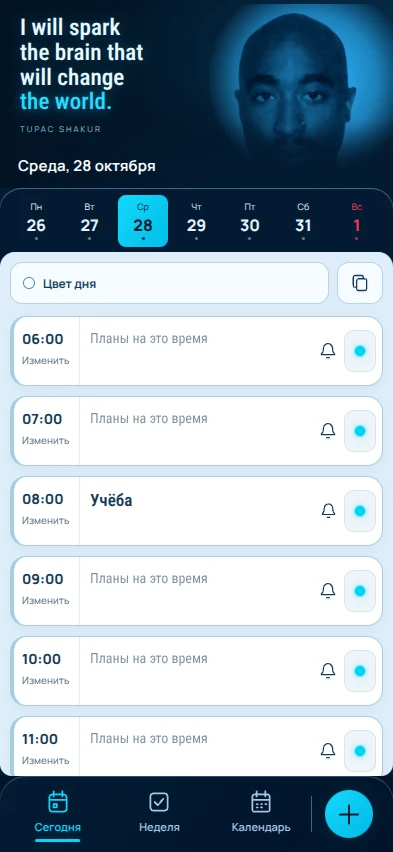
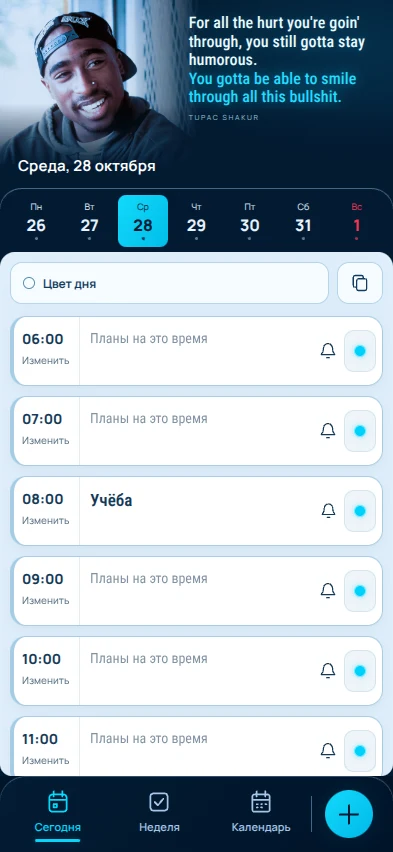
Use user's blue Tupac photograph on left and supplied caption on right (2.3.14)

Changed region(s): [[0.0, 0.0, 1.0, 0.2136]]

diff --git a/app/src/main/assets/index.html b/app/src/main/assets/index.html
@@ -691,6 +691,15 @@ body[data-design=ice].ice-editing .ice-tribute{height:46px;min-height:46px}
 body[data-design=ice].ice-editing .ice-tribute-quote,body[data-design=ice].ice-editing .ice-tupac-photo,body[data-design=ice].ice-editing .ice-tribute-glow{display:none}
 body[data-design=ice].ice-editing .ice-tribute .ice-date-line{bottom:6px;font-size:13px;left:13px}
 @media(max-width:350px){.ice-tribute-quote{padding-left:16px}.ice-tribute-quote p{font-size:22px}.ice-tupac-photo{width:56%;right:-8px}body[data-design=ice] .ice-tribute .ice-date-line{font-size:14px;left:16px}}
+</style><style>
+.ice-tupac-photo{left:0;right:auto;top:0;width:51%;height:165px;mask-image:linear-gradient(90deg,#000 65%,transparent 100%);-webkit-mask-image:linear-gradient(90deg,#000 65%,transparent 100%)}
+.ice-tupac-photo img{object-fit:cover;object-position:45% 35%;filter:none;opacity:1}
+.ice-tribute-glow{left:-20px;right:auto;background:radial-gradient(ellipse,#00d4ff26,transparent 68%)}
+.ice-tribute:after{background:linear-gradient(0deg,#031a31 0%,#031a31ee 13%,transparent 45%);z-index:1}
+.ice-tribute-quote{margin-left:48%;padding:14px 12px 0 0;width:52%}
+.ice-tribute-quote p{font-size:16px;line-height:1.16;font-weight:500;text-shadow:0 0 10px #25c4ff33}
+.ice-tribute-quote cite{margin-top:6px;font-size:7px;letter-spacing:1.7px}
+@media(max-width:350px){.ice-tribute-quote{margin-left:46%;width:54%;padding:12px 9px 0 0}.ice-tribute-quote p{font-size:15px;line-height:1.14}.ice-tupac-photo{left:0;right:auto;width:50%}}
 </style></head><body><main><header class="app-heading"><p id="top-date"></p><div class="header-actions"><button class="header-icon" data-tab="events" aria-label="События и напоминания"><svg viewBox="0 0 24 24" fill="none" stroke="currentColor" stroke-width="1.7"><path d="M18 8a6 6 0 0 0-12 0c0 7-3 7-3 9h18c0-2-3-2-3-9M10 21h4"/></svg></button><button class="header-icon" id="settings-open" aria-label="Настройки" aria-expanded="false"><svg viewBox="0 0 24 24" fill="none" stroke="currentColor" stroke-width="1.7"><path d="m10 3-.7 2.3-2 .9-2.2-.7-2 3.4 1.5 1.8v2.6L3.1 15l2 3.4 2.2-.7 2 .9.7 2.4h4l.7-2.4 2-.9 2.2.7 2-3.4-1.5-1.7v-2.6l1.5-1.8-2-3.4-2.2.7-2-.9L14 3z"/><circle cx="12" cy="12" r="3"/></svg></button></div></header><nav class="tabs" aria-label="Период"><button class="tab active" data-tab="day"><svg class="ui-icon" width="20" height="20" viewBox="0 0 24 24" fill="none" stroke="currentColor" stroke-width="1.65" stroke-linecap="round" stroke-linejoin="round" aria-hidden="true"><rect x="4" y="5" width="16" height="16" rx="3"/><path d="M8 3v4m8-4v4M4 11h16m-11 4h2v2H9z"/></svg><span>День</span></button><button class="tab" data-tab="week"><svg class="ui-icon" width="20" height="20" viewBox="0 0 24 24" fill="none" stroke="currentColor" stroke-width="1.65" stroke-linecap="round" stroke-linejoin="round" aria-hidden="true"><rect x="3" y="3" width="7" height="7" rx="1"/><rect x="14" y="3" width="7" height="7" rx="1"/><rect x="3" y="14" width="7" height="7" rx="1"/><rect x="14" y="14" width="7" height="7" rx="1"/></svg><span>Неделя</span></button><button class="tab" data-tab="calendar"><svg class="ui-icon" width="20" height="20" viewBox="0 0 24 24" fill="none" stroke="currentColor" stroke-width="1.65" stroke-linecap="round" stroke-linejoin="round" aria-hidden="true"><rect x="4" y="5" width="16" height="16" rx="3"/><path d="M8 3v4m8-4v4M4 11h16m-11 4h6"/></svg><span>Календарь</span></button><button class="tab" data-tab="savings"><svg class="ui-icon" width="20" height="20" viewBox="0 0 24 24" fill="none" stroke="currentColor" stroke-width="1.65" stroke-linecap="round" stroke-linejoin="round" aria-hidden="true"><ellipse cx="12" cy="5" rx="7" ry="3"/><path d="M5 5v5c0 4 14 4 14 0V5M5 10v5c0 4 14 4 14 0v-5M5 15v4c0 4 14 4 14 0v-4"/></svg><span>Накопления</span></button><button class="tab" data-tab="notes"><svg class="ui-icon" width="20" height="20" viewBox="0 0 24 24" fill="none" stroke="currentColor" stroke-width="1.65" stroke-linecap="round" stroke-linejoin="round" aria-hidden="true"><path d="M14 3H6a2 2 0 0 0-2 2v14a2 2 0 0 0 2 2h12a2 2 0 0 0 2-2V9zM14 3v6h6M8 13h8m-8 4h6"/></svg><span>Заметки</span></button><button class="tab" data-tab="events" aria-label="События и напоминания"><svg class="ui-icon" width="20" height="20" viewBox="0 0 24 24" fill="none" stroke="currentColor" stroke-width="1.65" stroke-linecap="round" stroke-linejoin="round" aria-hidden="true"><path d="M18 8a6 6 0 0 0-12 0c0 7-3 7-3 9h18c0-2-3-2-3-9M10 21h4"/></svg></button></nav><div class="toolbar"><div class="period-title"><h1 class="date-title" id="title"></h1><p class="sub" id="subtitle"></p></div><div class="nav"><button class="btn arrow" id="prev" aria-label="Предыдущий период">‹</button><label class="sr-only" for="date">Выбрать дату</label><input class="date-input" id="date" type="date"><button class="btn arrow" id="next" aria-label="Следующий период">›</button><button class="btn" id="today">Сегодня</button></div></div><div id="view"></div><div id="footer-home" hidden></div><footer id="app-footer" hidden><span id="save-state" role="status">Сохранено на устройстве</span><button id="global-calc-open" hidden aria-label="Калькулятор"></button></footer></main>
 <dialog id="reminder-dialog" aria-labelledby="reminder-title"><form id="reminder-form"><div class="dialog-head"><h2 id="reminder-title">Событие</h2><button type="button" data-close="reminder-dialog" aria-label="Закрыть">×</button></div><input name="reminderId" type="hidden"><label class="field">Название<input name="title" maxlength="500" required placeholder="Например, день рождения"></label><div class="reminder-datetime"><label class="field">Дата<input name="date" type="date" required></label><label class="field">Время<input name="time" type="time" required></label></div><label class="field">Напомнить<select name="lead"><option value="0">В указанное время</option><option value="5">За 5 минут</option><option value="10">За 10 минут</option><option value="15">За 15 минут</option><option value="30">За 30 минут</option><option value="60">За 1 час</option><option value="1440">За 1 день</option></select></label><label class="field">Повтор<select name="repeat"><option value="none">Один раз</option><option value="daily">Каждый день</option><option value="weekly">По дням недели</option><option value="monthly">Каждый месяц</option><option value="yearly">Каждый год</option></select></label><div id="weekday-options" class="weekday-options" hidden><label><input name="weekdays" type="checkbox" value="1">Пн</label><label><input name="weekdays" type="checkbox" value="2">Вт</label><label><input name="weekdays" type="checkbox" value="3">Ср</label><label><input name="weekdays" type="checkbox" value="4">Чт</label><label><input name="weekdays" type="checkbox" value="5">Пт</label><label><input name="weekdays" type="checkbox" value="6">Сб</label><label><input name="weekdays" type="checkbox" value="7">Вс</label></div><p class="dialog-note" id="repeat-help"></p><label class="enabled-reminder"><input type="checkbox" name="enabled" checked>Уведомление включено</label><p id="reminder-error" class="form-error" hidden></p><div class="dialog-actions"><button type="button" class="btn danger" id="reminder-delete" hidden>Удалить</button><button type="submit" class="btn primary">Сохранить</button></div></form></dialog>
 <dialog id="main-menu-dialog" aria-labelledby="main-menu-title"><form id="main-menu-form"><div class="dialog-head"><h2 id="main-menu-title">Главное меню</h2><button type="button" data-close="main-menu-dialog" aria-label="Закрыть">×</button></div><p class="dialog-note">Выбери три раздела для нижнего меню. Плюс остаётся третьей кнопкой. Выбор и порядок одинаковы во всех темах.</p><div id="main-menu-preview" class="main-menu-preview" aria-label="Предпросмотр меню"></div><label class="field">Первая кнопка<select name="menuFirst"></select></label><label class="field">Вторая кнопка<select name="menuSecond"></select></label><label class="field">Кнопка справа от плюса<select name="menuThird"></select></label><p id="main-menu-error" class="form-error" role="alert" hidden></p><p class="dialog-note">Скрытие кнопки не удаляет записи. На день и в настройки можно перейти через «+».</p><button class="btn" id="main-menu-reset" type="button">По умолчанию</button><div class="dialog-actions"><button class="btn" type="button" data-close="main-menu-dialog">Отмена</button><button class="btn primary" id="main-menu-save" type="submit">Сохранить</button></div></form></dialog><dialog id="ice-time-dialog" aria-labelledby="ice-time-title"><form id="ice-time-form"><div class="dialog-head"><h2 id="ice-time-title">Время задачи</h2><button type="button" data-close="ice-time-dialog" aria-label="Закрыть">×</button></div><label class="field">Точное время<input name="time" type="time" min="06:00" max="23:59" step="60" required></label><p class="dialog-note">Выбери время с 06:00 до 23:59. Запись займёт своё место в расписании.</p><p id="ice-time-error" class="form-error" role="alert" hidden></p><div class="dialog-actions"><button type="button" class="btn" data-close="ice-time-dialog">Отмена</button><button type="submit" class="btn primary">Готово</button></div></form></dialog><dialog id="ice-menu-dialog" aria-labelledby="ice-menu-title"><div class="dialog-head"><h2 id="ice-menu-title">Больше возможностей</h2><button data-close="ice-menu-dialog" aria-label="Закрыть">×</button></div><div id="ice-tools-list"></div></dialog><dialog id="theme-dialog" aria-labelledby="theme-title"><div class="dialog-head"><h2 id="theme-title">Оформление</h2><button data-close="theme-dialog" aria-label="Закрыть">×</button></div><p class="dialog-note">Выбери готовую тему и нажми «Применить». У каждой темы своя палитра для всех разделов.</p><h3 class="appearance-label">Темы приложения</h3><div id="design-gallery" class="design-gallery"></div><label class="field">Шрифт интерфейса<select id="typeface-choice"><option value="theme">По теме</option><option value="modern">Современный · Manrope</option><option value="book">Книжный · Lora</option><option value="system">Системный</option></select></label><label class="field">Размер записей<select id="font-size-choice"><option value="small">Компактный</option><option value="normal">Обычный</option><option value="large">Крупный</option></select></label><label class="field">Высота строк расписания<select id="density-choice"><option value="normal">Обычная</option><option value="compact">Компактная</option></select></label></dialog>
@@ -970,7 +979,7 @@ function setIceSlotColor(d,i,key){if(!validDate(d)||!Number.isInteger(i)||i<0||i
 function iceColor(key){return ICE_COLORS[key]||ICE_COLORS.none}
 function iceRowStyle(key){const c=iceColor(key);return `--ice-mark:${c[1]};--ice-card:${c[2]};--ice-ink:${c[3]}`}
 function activeColors(){return state.prefs.design==='ice'?ICE_COLORS:COLORS}
-function renderIceDay(){const start=monday(selected);$('view').innerHTML=`<section class="ice-home"><header class="ice-hero ice-tribute"><svg class="ice-photo-filter" width="0" height="0" aria-hidden="true"><defs><filter id="ice-tupac-duotone" color-interpolation-filters="sRGB"><feColorMatrix type="matrix" values="0.06 0.06 0.06 0 0.01 0.19 0.19 0.19 0 0.04 0.25 0.25 0.25 0 0.10 0 0 0 1 0"/></filter></defs></svg><div class="ice-tribute-glow" aria-hidden="true"></div><div class="ice-tupac-photo"><img src="ice/tupac-portrait.jpg" alt="Тупак Шакур" decoding="async"></div><blockquote class="ice-tribute-quote"><p>I will spark<br>the brain that<br>will change<br><em>the world.</em></p><cite>Tupac Shakur</cite></blockquote><div class="ice-date-line"><span>${fmt(selected,{weekday:'long',day:'numeric',month:'long'}).replace(/^./,c=>c.toUpperCase())}</span></div></header><nav class="ice-week" aria-label="Дни недели">${Array.from({length:7},(_,i)=>{const d=addDays(start,i),count=occupied(d)+dayEvents(d).length;return `<button data-date="${d}" class="${i===6?'ice-sunday':''}" ${d===selected?'aria-current="date"':''} aria-label="${fmt(d,{weekday:'long',day:'numeric',month:'long'})}"><span>${fmt(d,{weekday:'short'})}</span><strong>${dateObj(d).getDate()}</strong><i class="${count?'has-plans':''}"></i></button>`}).join('')}</nav><div class="ice-edit-bar"><span><small>Редактирование</small><strong id="ice-edit-time"></strong></span><button type="button" id="ice-edit-done">Готово</button></div><div class="ice-paper"><div class="ice-time-grid"><div class="ice-day-tools"><button data-day-color-open="${selected}"><i style="background:${iceColor(dayColor(selected))[1]}"></i>Цвет дня</button><button id="copy-open" aria-label="Скопировать день">${uiIcon('copy')}</button></div>${slots().map((r,i)=>({...r,i})).sort((x,y)=>x.time.localeCompare(y.time)||x.i-y.i).map(r=>{const i=r.i,[a,b]=iceTimeRange(i);return `<section class="ice-time-block ${r.text.trim()?'has-entry':''}" data-ice-slot="${i}" data-slot="${i}" data-color="${r.color}" style="${iceRowStyle(r.color)}"><button type="button" class="ice-hours ice-time-edit" data-ice-time="${i}" aria-label="Изменить время ${a}"><time>${a}</time><span>Изменить</span></button><div class="ice-entry"><label class="sr-only" for="slot-${i}">Дело на ${a}</label><textarea rows="1" id="slot-${i}" data-edit="${i}" aria-label="Дело на ${a}" maxlength="10000" placeholder="Планы на это время" spellcheck="true" autocapitalize="sentences">${esc(r.text)}</textarea><div class="ice-card-actions"><button class="ice-entry-reminder" data-slot-reminder="${i}" aria-label="Напоминание для ${a}">${uiIcon('bell')}</button><button class="ice-color-button" data-color-open="${i}" aria-label="Цвет записи ${a}: ${iceColor(r.color)[0]}"><i></i></button></div><button type="button" class="ice-expand" data-ice-expand="${i}" aria-controls="slot-${i}" aria-expanded="false" aria-label="Развернуть задание" hidden><svg viewBox="0 0 24 24" fill="none" stroke="currentColor" stroke-width="2" aria-hidden="true"><path d="m6 9 6 6 6-6"/></svg></button><button type="button" class="ice-row-done" data-ice-done="${i}">✓ Готово</button></div></section>`}).join('')}<div class="ice-time-end">24:00</div></div></div></section>`;refreshIceRows()}
+function renderIceDay(){const start=monday(selected);$('view').innerHTML=`<section class="ice-home"><header class="ice-hero ice-tribute"><svg class="ice-photo-filter" width="0" height="0" aria-hidden="true"><defs><filter id="ice-tupac-duotone" color-interpolation-filters="sRGB"><feColorMatrix type="matrix" values="0.06 0.06 0.06 0 0.01 0.19 0.19 0.19 0 0.04 0.25 0.25 0.25 0 0.10 0 0 0 1 0"/></filter></defs></svg><div class="ice-tribute-glow" aria-hidden="true"></div><div class="ice-tupac-photo"><img src="ice/tupac-user-blue.jpg" alt="Тупак Шакур" decoding="async"></div><blockquote class="ice-tribute-quote"><p>For all the hurt you're goin' through, you still gotta stay humorous.<br><em>You gotta be able to smile through all this bullshit.</em></p><cite>Tupac Shakur</cite></blockquote><div class="ice-date-line"><span>${fmt(selected,{weekday:'long',day:'numeric',month:'long'}).replace(/^./,c=>c.toUpperCase())}</span></div></header><nav class="ice-week" aria-label="Дни недели">${Array.from({length:7},(_,i)=>{const d=addDays(start,i),count=occupied(d)+dayEvents(d).length;return `<button data-date="${d}" class="${i===6?'ice-sunday':''}" ${d===selected?'aria-current="date"':''} aria-label="${fmt(d,{weekday:'long',day:'numeric',month:'long'})}"><span>${fmt(d,{weekday:'short'})}</span><strong>${dateObj(d).getDate()}</strong><i class="${count?'has-plans':''}"></i></button>`}).join('')}</nav><div class="ice-edit-bar"><span><small>Редактирование</small><strong id="ice-edit-time"></strong></span><button type="button" id="ice-edit-done">Готово</button></div><div class="ice-paper"><div class="ice-time-grid"><div class="ice-day-tools"><button data-day-color-open="${selected}"><i style="background:${iceColor(dayColor(selected))[1]}"></i>Цвет дня</button><button id="copy-open" aria-label="Скопировать день">${uiIcon('copy')}</button></div>${slots().map((r,i)=>({...r,i})).sort((x,y)=>x.time.localeCompare(y.time)||x.i-y.i).map(r=>{const i=r.i,[a,b]=iceTimeRange(i);return `<section class="ice-time-block ${r.text.trim()?'has-entry':''}" data-ice-slot="${i}" data-slot="${i}" data-color="${r.color}" style="${iceRowStyle(r.color)}"><button type="button" class="ice-hours ice-time-edit" data-ice-time="${i}" aria-label="Изменить время ${a}"><time>${a}</time><span>Изменить</span></button><div class="ice-entry"><label class="sr-only" for="slot-${i}">Дело на ${a}</label><textarea rows="1" id="slot-${i}" data-edit="${i}" aria-label="Дело на ${a}" maxlength="10000" placeholder="Планы на это время" spellcheck="true" autocapitalize="sentences">${esc(r.text)}</textarea><div class="ice-card-actions"><button class="ice-entry-reminder" data-slot-reminder="${i}" aria-label="Напоминание для ${a}">${uiIcon('bell')}</button><button class="ice-color-button" data-color-open="${i}" aria-label="Цвет записи ${a}: ${iceColor(r.color)[0]}"><i></i></button></div><button type="button" class="ice-expand" data-ice-expand="${i}" aria-controls="slot-${i}" aria-expanded="false" aria-label="Развернуть задание" hidden><svg viewBox="0 0 24 24" fill="none" stroke="currentColor" stroke-width="2" aria-hidden="true"><path d="m6 9 6 6 6-6"/></svg></button><button type="button" class="ice-row-done" data-ice-done="${i}">✓ Готово</button></div></section>`}).join('')}<div class="ice-time-end">24:00</div></div></div></section>`;refreshIceRows()}
 function refreshIceRows(){if(state.prefs.design!=='ice'||tab!=='day')return;const now=new Date(),minutes=now.getHours()*60+now.getMinutes();document.querySelectorAll('.ice-time-block').forEach(row=>{const i=Number(row.dataset.iceSlot);const color=slots()[i].color;row.dataset.color=color;row.style.cssText=iceRowStyle(color);const trigger=row.querySelector('[data-color-open]');trigger.title=iceColor(color)[0];trigger.setAttribute('aria-label','Цвет записи '+iceTimeRange(i)[0]+': '+iceColor(color)[0]);const text=row.querySelector('textarea'),focused=text===document.activeElement,oldScroll=text.scrollTop,atEnd=text.selectionEnd===text.value.length;row.classList.toggle('has-entry',!!text.value.trim());row.classList.toggle('ice-row-editing',focused);const [a,b]=iceTimeRange(i).map(t=>{const [h,m]=t.split(':').map(Number);return h*60+m});row.classList.toggle('ice-current',selected===iso()&&minutes>=a&&minutes<b);const visible=iceVisibleHeight(),collapsed=Math.ceil(parseFloat(getComputedStyle(text).lineHeight)*2+4),expanded=row.classList.contains('ice-expanded'),max=focused?Math.max(70,Math.min(180,visible-235)):(expanded?Infinity:collapsed),min=focused?Math.min(96,max):42;text.style.height='auto';const needed=text.scrollHeight,toggle=row.querySelector('.ice-expand'),long=!!text.value.trim()&&needed>collapsed+1;toggle.hidden=focused||!long;toggle.setAttribute('aria-expanded',String(expanded));toggle.setAttribute('aria-label',expanded?'Свернуть задание':'Развернуть задание');text.style.height=Math.min(max,Math.max(min,needed))+'px';if(focused)text.scrollTop=atEnd?text.scrollHeight:oldScroll;else text.scrollTop=0})}
 function openIceMenu(){$('ice-tools-list').innerHTML=[['task','plus','Записать дело','Выбрать время в расписании'],['calculator','calculator','Калькулятор','Открыть на весь экран'],['notes','notes','Заметки','Идеи, списки и личные записи'],['savings','savings','Накопления','Посмотреть свои цели'],['settings','gear','Настройки','Темы и резервные копии']].map(([action,icon,title,desc])=>`<button data-ice-action="${action}"><span>${iceIcon(icon)}</span><span><strong>${title}</strong><small>${desc}</small></span><b>›</b></button>`).join('');$('ice-menu-dialog').showModal()}
 function focusIceTask(){navigate(selected,'day');const i=slots().findIndex(r=>!r.text.trim()),el=$('slot-'+(i<0?0:i));el.scrollIntoView({block:'center',behavior:'instant'});el.focus()}
